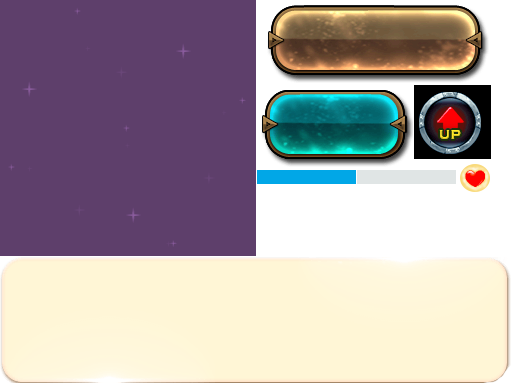
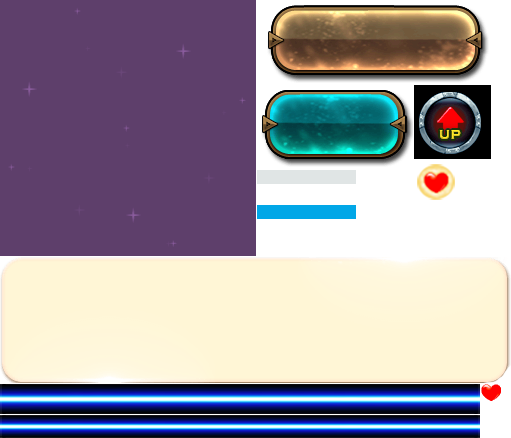
炸弹 优化  更换图片等

diff --git a/src/ui/layaUI.max.all.js b/src/ui/layaUI.max.all.js
@@ -42,7 +42,7 @@ var GameInfoUI=(function(_super){
 
 		}
 
-		GameInfoUI.uiView={"type":"View","props":{"width":400,"height":825},"child":[{"type":"Image","props":{"y":12,"x":4,"width":108,"skin":"resource/ui/myLabel.png","rotation":1,"height":34},"child":[{"type":"Label","props":{"y":-2,"x":6,"wordWrap":true,"width":100,"var":"scoreLabel","valign":"middle","text":"2555555","height":32,"fontSize":20,"color":"#120707"}}]},{"type":"Label","props":{"y":793,"x":7,"width":59,"var":"boomLabel","valign":"middle","text":"炸弹","height":36,"fontSize":20,"color":"#1a22e8","borderColor":"#0c4ae8"}},{"type":"Image","props":{"y":50,"x":5,"width":108,"skin":"resource/ui/myLabel.png","rotation":1,"height":34},"child":[{"type":"Label","props":{"y":0,"x":35,"wordWrap":true,"width":70,"var":"upgradesphereLabel","valign":"middle","text":"255","height":32,"fontSize":20,"color":"#120707"}},{"type":"Image","props":{"y":0,"x":-2,"skin":"resource/role/upgrade.png"}}]},{"type":"Image","props":{"y":33,"x":241,"width":102,"skin":"resource/ui/myLabel.png","height":10},"child":[{"type":"Sprite","props":{"y":-1,"x":-1,"width":142,"var":"heroHpPos","height":32}},{"type":"Image","props":{"y":-6,"x":-17,"width":22,"skin":"resource/ui/hpLogo.png","height":22}}]}]};
+		GameInfoUI.uiView={"type":"View","props":{"width":480,"height":825},"child":[{"type":"Image","props":{"y":12,"x":4,"width":120,"skin":"resource/ui/myLabel.png","rotation":1,"height":34},"child":[{"type":"Label","props":{"y":-2,"x":6,"wordWrap":true,"width":100,"var":"scoreLabel","valign":"middle","text":"2555555","height":32,"fontSize":20,"color":"#120707"}}]},{"type":"Label","props":{"y":793,"x":7,"width":59,"var":"boomLabel","valign":"middle","text":"炸弹","height":36,"fontSize":20,"color":"#1a22e8","borderColor":"#0c4ae8"}},{"type":"Image","props":{"y":50,"x":5,"width":120,"skin":"resource/ui/myLabel.png","rotation":1,"height":34},"child":[{"type":"Label","props":{"y":0,"x":35,"wordWrap":true,"width":70,"var":"upgradesphereLabel","valign":"middle","text":"255","height":32,"fontSize":20,"color":"#120707"}},{"type":"Image","props":{"y":1,"x":0,"width":33,"skin":"resource/role/upgrade.png","height":32}}]},{"type":"Image","props":{"y":29,"x":338,"width":102,"skin":"resource/ui/myLabel.png","height":10},"child":[{"type":"Sprite","props":{"y":-1,"x":-1,"width":142,"var":"heroHpPos","height":34}},{"type":"Image","props":{"y":-14,"x":-32,"width":40,"skin":"resource/ui/hpLogo.png","height":40}}]}]};
 		return GameInfoUI;
 	})(View);
 var HomePageUI=(function(_super){
@@ -63,7 +63,7 @@ var HomePageUI=(function(_super){
 
 		}
 
-		HomePageUI.uiView={"type":"View","props":{"width":400,"height":825},"child":[{"type":"Image","props":{"y":-2,"x":-3,"width":533,"skin":"resource/role/background.png","height":852}},{"type":"Image","props":{"y":264,"x":89,"width":214,"skin":"resource/ui/myLabel.png","height":71},"child":[{"type":"Label","props":{"y":15,"x":38,"width":120,"var":"startGameLabel","text":"开始游戏","height":48,"fontSize":36,"color":"#cd1b18"}}]},{"type":"Image","props":{"y":375,"x":91,"width":214,"skin":"resource/ui/myLabel.png","height":71},"child":[{"type":"Label","props":{"y":13,"x":33,"width":182,"var":"upgradeAttriLabel","text":"升级属性","height":62,"fontSize":36,"color":"#cd1b18"}}]}]};
+		HomePageUI.uiView={"type":"View","props":{"width":400,"height":825},"child":[{"type":"Image","props":{"y":-2,"x":-3,"width":533,"skin":"resource/role/background.png","height":852}},{"type":"Image","props":{"y":264,"x":111,"width":214,"skin":"resource/ui/myLabel.png","height":71},"child":[{"type":"Label","props":{"y":15,"x":38,"width":120,"var":"startGameLabel","text":"开始游戏","height":48,"fontSize":36,"color":"#cd1b18"}}]},{"type":"Image","props":{"y":375,"x":112,"width":214,"skin":"resource/ui/myLabel.png","height":71},"child":[{"type":"Label","props":{"y":13,"x":33,"width":182,"var":"upgradeAttriLabel","text":"升级属性","height":62,"fontSize":36,"color":"#cd1b18"}}]}]};
 		return HomePageUI;
 	})(View);
 var UpgradeUI=(function(_super){

diff --git a/src/scene/PlayScene.js b/src/scene/PlayScene.js
@@ -12,6 +12,7 @@ var PlayScene = (function (_super) {
         this.enemyBox = ObjectHolder.enemyBox;
         this.enemyBulletBox = ObjectHolder.enemyBulletBox;
         this.heroBulletBox = ObjectHolder.heroBulletBox;
+        this.heroBoomBox = ObjectHolder.heroBoomBox;
         this.itemBox = ObjectHolder.itemBox;
         this.hero = ObjectHolder.hero;
         this.test = true;
@@ -32,6 +33,7 @@ var PlayScene = (function (_super) {
         this.addChild(this.background);
         this.addChild(this.enemyBox);
         this.addChild(this.heroBulletBox);
+        this.addChild(this.heroBoomBox);
         this.addChild(this.itemBox);
         this.addChild(this.hero);
         this.addChild(this.enemyBulletBox);
@@ -78,6 +80,31 @@ var PlayScene = (function (_super) {
 
                 // 碰撞事件Start
 
+                /**
+                 * 主角炸弹碰 敌机 和 子弹
+                 */
+                
+                for(var i = 0; i < this.heroBoomBox.numChildren; i++) {
+                    var heroBullet = this.heroBoomBox.getChildAt(i);
+                    heroBullet.move();
+                    for(var j = 0; j < this.enemyBox.numChildren; j++) {
+                        var enemy = this.enemyBox.getChildAt(j);
+                        if (heroBullet.getBounds().intersects(enemy.getBounds())) {
+                            var next = heroBullet.onHitTarget(enemy);
+                            enemy.hitBy(heroBullet);
+                            if(!next) break; 
+                        }
+                    }
+                    for(var i = 0; i < this.enemyBulletBox.numChildren; i++) {
+                        var bullet = this.enemyBulletBox.getChildAt(i);
+                        var bound = bullet.getBounds();
+                        var pos = bullet.getAbsPos();
+                        bound.setTo(pos[0], pos[1], 5, 5);
+                        if(heroBullet.getBounds().intersects(bound)){
+                            bullet.impactedBy(heroBullet);
+                        }
+                    }
+                }
                 /**
                  * 主角子弹碰敌机
                  */

diff --git a/src/obj/ObjectHolder.js b/src/obj/ObjectHolder.js
@@ -8,6 +8,7 @@ var ObjectHolder = (function () {
         this.background = new Background();
         this.enemyBox = new Laya.Sprite();
         this.heroBulletBox = new Laya.Sprite();
+        this.heroBoomBox = new Laya.Sprite();
         this.enemyBulletBox = new Laya.Sprite();
         this.enemyFactory = new BaseEnemyFactory();
         this.itemBox = new Laya.Sprite();
@@ -22,6 +23,8 @@ var ObjectHolder = (function () {
         this.enemyBox = new Laya.Sprite();
         this.enemyBulletBox.destroy();
         this.enemyBulletBox = new Laya.Sprite();
+        this.heroBoomBox.destroy();
+        this.heroBoomBox = new Laya.Sprite();
         this.heroBulletBox.destroy();
         this.heroBulletBox = new Laya.Sprite();
         this.itemBox.destroy();

diff --git a/src/obj/bullet/hero/Boom.js b/src/obj/bullet/hero/Boom.js
@@ -12,8 +12,12 @@ var Boom = (function(_super){
     }
 
     _proto.childInit = function(_info){
-        this.graphics.drawRect(0, 0, 400, 20, 'blue', 'yellow', 3);
-        this.setBounds(new laya.maths.Rectangle(0, 0 ,400, 20));
+        // this.graphics.drawRect(0, 0, 480, 25, 'blue', 'yellow', 3);
+        // this.setBounds(new laya.maths.Rectangle(0, 0 ,480, 20));
+        this.body = new Laya.Animation();
+        this.addChild(this.body);
+        this.body.play(0, true, "hero_boom_fly");
+        this.setBounds(this.body.getBounds());
     }
     return Boom;
 })(Bullet);

diff --git a/src/myUI/PlayUI.js b/src/myUI/PlayUI.js
@@ -25,8 +25,8 @@ var PlayUI = (function(_super){
         if(ObjectHolder.hero.boomNum > 0){
             ObjectHolder.hero.boomNum--;
             var boom = new Boom();
-            boom.init({'atk': 99999, 'x': 0, 'y': 825, 'vx': 0, 'vy': -3});
-            ObjectHolder.heroBulletBox.addChild(boom);
+            boom.init({'atk': 99999, 'x': 0, 'y': 825, 'vx': 0, 'vy': -4});
+            ObjectHolder.heroBoomBox.addChild(boom);
             this.showBoom(ObjectHolder.hero.boomNum);
         }
         //Laya.stage.once(Laya.Event.CLICK, this, this.onStageClick);

diff --git a/src/scene/LoadScene.js b/src/scene/LoadScene.js
@@ -119,6 +119,8 @@ var LoadScene = (function (_super) {
         // 敌机子弹
         Laya.Animation.createFrames(["resource/role/enemy_bullet.png"],"enemy_bullet_fly");
 
+        // 主角炸弹
+        Laya.Animation.createFrames(["resource/ui/heroBoom.png"],"hero_boom_fly");
 
         //缓存强化包
         Laya.Animation.createFrames(["resource/role/ufo1.png"],"ufo1_fly");

diff --git a/src/obj/role/enemy/SmallEnemy.js b/src/obj/role/enemy/SmallEnemy.js
@@ -28,7 +28,7 @@ var SmallEnemy = (function (_super) {
         _super.call(this, opts);
         _super.prototype.init.call(this, opts);
         opts = opts || {};
-        this.vy = opts.vy || 3;
+        this.vy = opts.vy || 2.5;
         this.score = opts.score || 5;
     }
 

diff --git a/src/obj/GameHolder.js b/src/obj/GameHolder.js
@@ -12,7 +12,7 @@ var GameHolder = (function () {
     };
 
     // 游戏状态
-    GameHolder.appearBossScores = [10, 2000, 4000, 8000, 15000];
+    GameHolder.appearBossScores = [2000, 4000, 8000, 15000];
 
     // 游戏进行中的状态
     GameHolder.playStateEnum = {

diff --git a/src/config/SysConfig.js b/src/config/SysConfig.js
@@ -2,7 +2,7 @@
 * 系统配置
 */
 var SysConfig = {
-    SCREEN_WIDTH: 512,
+    SCREEN_WIDTH: 480,
     SCREEN_HEIGHT: 852
 };
 
